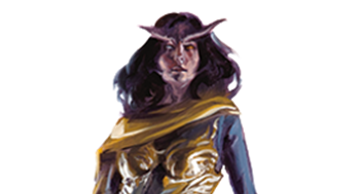
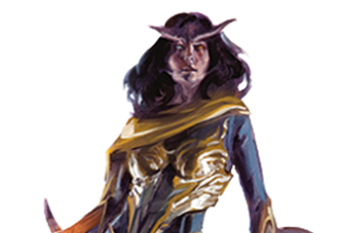
(Sarah) Small photo fixes

Changed region(s): [[0.1146, 0.0309, 0.8883, 1.0]]

diff --git a/src/components/character/CharacterDisplay.js b/src/components/character/CharacterDisplay.js
@@ -55,7 +55,7 @@ const CharacterDisplay = (props) => {
                 Male_HalfElf: 'Male_HalfElf.png',
                 Male_Halfling: 'Male_Halfling.png',
                 Male_HalfOrc: 'Male_HalfOrc.jpg',
-                Male_Human: 'Male_Human.jpg',
+                Male_Human: 'Male_Human.png',
                 Male_Tiefling: 'Male_Tiefling.jpg',
                 Default: 'Logo.png'
             }

diff --git a/src/App.css b/src/App.css
@@ -58,7 +58,6 @@
 
 #image {
   max-width: 400px;
-  
 }
 
 #cardImage {
